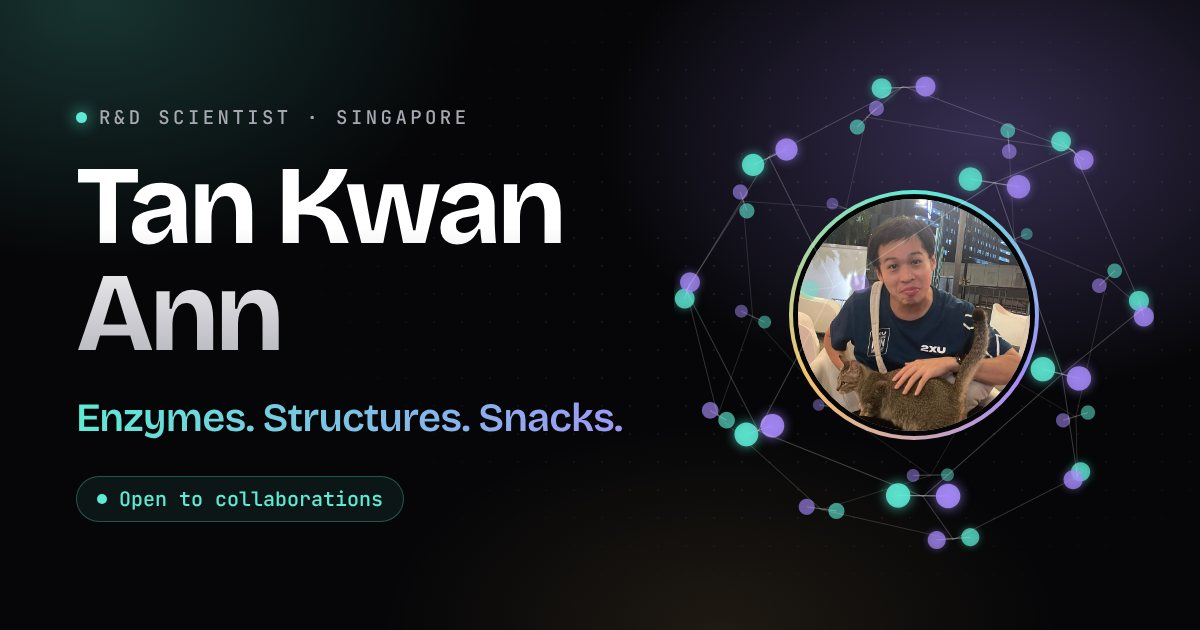
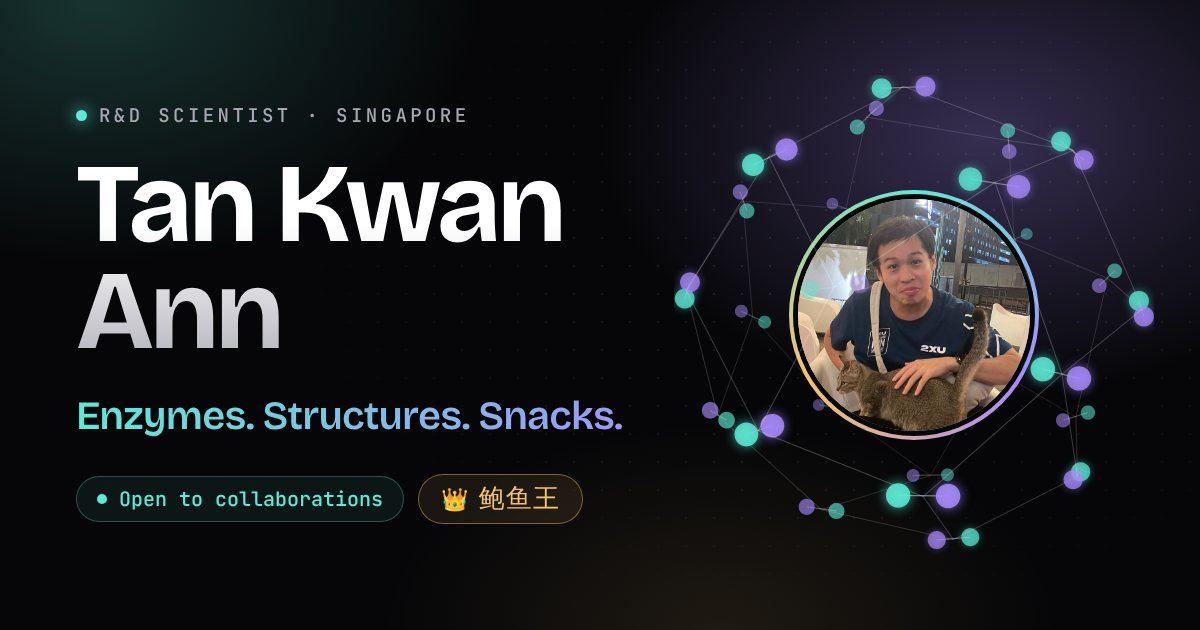
Give the Abalone King (鲍鱼王) a bigger place on ka.html
- Larger gold 鲍鱼王 badge with both titles: the Abalone King, a.k.a. the
  Abalone Sovereign; surprise message now hails the Sovereign
- 鲍鱼王 in the ticker, the footer, the page description, the structured
  search data (alternate names) and the link-preview picture
- Rolling line gains 'rule the abalone kingdom'

Claude-Session: https://claude.ai/code/session_019ofttyJurJTtPAe88Q68mV

diff --git a/ka.html b/ka.html
@@ -4,11 +4,11 @@
 <meta charset="utf-8">
 <meta name="viewport" content="width=device-width, initial-scale=1">
 <title>Tan Kwan Ann — R&amp;D Scientist</title>
-<meta name="description" content="Enzyme engineer and structural biologist in Singapore. Also: abalone, hiking, and a 3D snack shop. Open to collaborations.">
+<meta name="description" content="Enzyme engineer and structural biologist in Singapore, also known as 鲍鱼王, the Abalone Sovereign. Also: hiking and a 3D snack shop. Open to collaborations.">
 <meta name="theme-color" content="#060608">
 <meta name="color-scheme" content="dark">
 <meta property="og:type" content="website">
-<meta property="og:title" content="Tan Kwan Ann — R&amp;D Scientist (and Abalone King)">
+<meta property="og:title" content="Tan Kwan Ann — R&amp;D Scientist, a.k.a. 鲍鱼王 the Abalone Sovereign">
 <meta property="og:description" content="Enzyme engineer and structural biologist in Singapore. Also: abalone, hiking, and a 3D snack shop. Open to collaborations.">
 <meta property="og:url" content="https://tankan7-max.github.io/ka-shop/ka.html">
 <meta property="og:image" content="https://tankan7-max.github.io/ka-shop/ka-og.jpg">
@@ -20,7 +20,7 @@
 <link rel="preload" href="fonts/bricolage-grotesque-latin-wght-normal.woff2" as="font" type="font/woff2" crossorigin>
 <link rel="preload" href="fonts/inter-latin-wght-normal.woff2" as="font" type="font/woff2" crossorigin>
 <script type="application/ld+json">
-{"@context":"https://schema.org","@type":"Person","name":"Tan Kwan Ann","jobTitle":"R&D Scientist","description":"Enzyme engineer and structural biologist in Singapore.","url":"https://tankan7-max.github.io/ka-shop/ka.html","sameAs":["https://www.linkedin.com/in/tan-kwan-ann","https://github.com/tankan7-max"],"knowsAbout":["Enzyme engineering","Protein engineering","Structural biology","Cryo-EM","Biocatalysis"]}
+{"@context":"https://schema.org","@type":"Person","name":"Tan Kwan Ann","alternateName":["鲍鱼王","Abalone King","Abalone Sovereign"],"jobTitle":"R&D Scientist","description":"Enzyme engineer and structural biologist in Singapore.","url":"https://tankan7-max.github.io/ka-shop/ka.html","sameAs":["https://www.linkedin.com/in/tan-kwan-ann","https://github.com/tankan7-max"],"knowsAbout":["Enzyme engineering","Protein engineering","Structural biology","Cryo-EM","Biocatalysis"]}
 </script>
 <style>
   /* Fonts are self-hosted (see fonts/LICENSES.txt): nothing is fetched from other websites. */
@@ -76,11 +76,14 @@
   .hero .wrap { display: grid; grid-template-columns: minmax(0, 1fr) auto; gap: 40px; align-items: center; padding-top: 84px; padding-bottom: 92px; }
   .eyebrow { display: inline-flex; align-items: center; gap: 10px; margin: 0 0 20px; font: 500 12px/1 var(--mono); letter-spacing: .18em; text-transform: uppercase; color: var(--muted); }
   h1 { font: 700 clamp(46px, 9.4vw, 112px)/.94 var(--display); letter-spacing: -.045em; margin: 0 0 22px; background: linear-gradient(180deg, #fff 35%, #9d9da8 120%); -webkit-background-clip: text; background-clip: text; color: transparent; }
-  .king { display: inline-flex; align-items: center; gap: 9px; margin: 0 0 22px; padding: 8px 14px 8px 10px; border: 1px solid rgba(245,194,107,.35); border-radius: 999px; background: rgba(245,194,107,.07); color: var(--ink); font: 500 13.5px/1 var(--sans); cursor: pointer; transition: background .2s, transform .2s, border-color .2s; }
+  .king { display: inline-flex; align-items: center; gap: 11px; margin: 0 0 22px; padding: 9px 16px 9px 12px; border: 1px solid rgba(245,194,107,.35); border-radius: 999px; background: rgba(245,194,107,.07); color: var(--ink); font: 500 13.5px/1 var(--sans); cursor: pointer; transition: background .2s, transform .2s, border-color .2s; }
   .king:hover { background: rgba(245,194,107,.14); border-color: rgba(245,194,107,.6); transform: translateY(-1px) rotate(-1deg); }
-  .king .crown { font-size: 17px; line-height: 1; }
-  .king b { font: 600 14px/1 var(--cjk); color: var(--a3); }
-  .king small { color: var(--faint); font: 500 11.5px/1 var(--mono); letter-spacing: .02em; }
+  .king .crown { font-size: 22px; line-height: 1; }
+  .king b { font: 700 24px/1 var(--cjk); letter-spacing: .04em; background: linear-gradient(100deg, #f5c26b, #fb9f6b); -webkit-background-clip: text; background-clip: text; color: transparent; }
+  .king .titles { display: flex; flex-direction: column; gap: 3px; text-align: left; }
+  .king .titles span { font: 600 14px/1.1 var(--sans); }
+  .king .titles em { font: 500 11.5px/1.1 var(--mono); font-style: normal; color: var(--muted); letter-spacing: .01em; }
+  .king small { color: var(--faint); font: 500 11.5px/1 var(--mono); letter-spacing: .02em; padding-left: 4px; }
   .roll { margin: 0 0 16px; min-height: 1.35em; font: 600 clamp(22px, 3.2vw, 34px)/1.25 var(--display); letter-spacing: -.02em; }
   .word { display: inline-block; transition: opacity .3s ease, transform .3s ease; }
   .word.out { opacity: 0; transform: translateY(.45em); }
@@ -293,6 +296,7 @@
     .feature-art { max-width: 340px; width: 100%; margin: 0 auto; }
     .invite { padding: 52px 22px; border-radius: 24px; }
   }
+  @media (max-width: 480px) { .king small { display: none; } .king { padding-right: 14px; } }
   @media (max-width: 420px) { .nums { grid-template-columns: 1fr 1fr; gap: 10px; } .num { padding: 16px 14px; } .gallery { column-gap: 12px; } .gallery li { margin-bottom: 12px; } .gallery figure { padding: 6px 6px 10px; } .gallery figcaption { font-size: 12.5px; margin: 9px 3px 0; } }
   @media (prefers-reduced-motion: reduce) {
     html { scroll-behavior: auto; }
@@ -367,8 +371,8 @@
     <div>
       <p class="eyebrow"><i></i>R&amp;D Scientist · Singapore</p>
       <h1>Tan Kwan Ann</h1>
-      <button class="king" id="king" type="button" aria-label="Also known as the Abalone King. Press for a surprise.">
-        <span class="crown" aria-hidden="true">👑</span><b lang="zh-Hans">鲍鱼王</b><span>the Abalone King</span><small aria-hidden="true">(press me)</small>
+      <button class="king" id="king" type="button" aria-label="Also known as 鲍鱼王, the Abalone King, or the Abalone Sovereign. Press for a surprise.">
+        <span class="crown" aria-hidden="true">👑</span><b lang="zh-Hans">鲍鱼王</b><span class="titles"><span>the Abalone King</span><em>a.k.a. the Abalone Sovereign</em></span><small aria-hidden="true">(press me)</small>
       </button>
       <p class="roll"><span class="sr">I engineer enzymes and solve protein structures.</span><span aria-hidden="true">I <span class="word grad" id="word">engineer enzymes</span></span></p>
       <p class="lede">PhD in structural biology, now making enzymes work in industry. Weekdays I make enzymes <b>behave</b>. Weekends: hiking, snack research, and vibe-coding a <b>3D snack shop</b>.</p>
@@ -393,10 +397,10 @@
 <div class="marquee" aria-hidden="true">
   <div class="track">
     <ul>
-      <li>Directed evolution</li><li>Cryo-EM</li><li>Golden Gate</li><li class="fun">Abalone appreciation</li><li>HPLC</li><li>Cofactor recycling</li><li>Python</li><li class="fun">Snack research</li><li>Lyophilization</li><li>Gibson Assembly</li><li>MALDI-TOF/TOF</li><li class="fun">Apprentice vibe-coder</li><li>Assay development</li><li>Saturation mutagenesis</li><li class="fun">Hiking</li>
+      <li>Directed evolution</li><li>Cryo-EM</li><li>Golden Gate</li><li class="fun">Abalone appreciation</li><li class="fun" lang="zh-Hans">鲍鱼王</li><li>HPLC</li><li>Cofactor recycling</li><li>Python</li><li class="fun">Snack research</li><li>Lyophilization</li><li>Gibson Assembly</li><li>MALDI-TOF/TOF</li><li class="fun">Apprentice vibe-coder</li><li>Assay development</li><li>Saturation mutagenesis</li><li class="fun">Hiking</li>
     </ul>
     <ul aria-hidden="true">
-      <li>Directed evolution</li><li>Cryo-EM</li><li>Golden Gate</li><li class="fun">Abalone appreciation</li><li>HPLC</li><li>Cofactor recycling</li><li>Python</li><li class="fun">Snack research</li><li>Lyophilization</li><li>Gibson Assembly</li><li>MALDI-TOF/TOF</li><li class="fun">Apprentice vibe-coder</li><li>Assay development</li><li>Saturation mutagenesis</li><li class="fun">Hiking</li>
+      <li>Directed evolution</li><li>Cryo-EM</li><li>Golden Gate</li><li class="fun">Abalone appreciation</li><li class="fun" lang="zh-Hans">鲍鱼王</li><li>HPLC</li><li>Cofactor recycling</li><li>Python</li><li class="fun">Snack research</li><li>Lyophilization</li><li>Gibson Assembly</li><li>MALDI-TOF/TOF</li><li class="fun">Apprentice vibe-coder</li><li>Assay development</li><li>Saturation mutagenesis</li><li class="fun">Hiking</li>
     </ul>
   </div>
 </div>
@@ -593,7 +597,7 @@
 
 <footer>
   <div class="wrap">
-    <span>© 2026 Tan Kwan Ann · Built with AI as my pair programmer, fuelled by snacks.</span>
+    <span>© 2026 Tan Kwan Ann (<span lang="zh-Hans">鲍鱼王</span>, the Abalone Sovereign) · Built with AI as my pair programmer, fuelled by snacks.</span>
     <span class="foot-links"><a href="mailto:tankan7@gmail.com">Email</a><a href="https://www.linkedin.com/in/tan-kwan-ann" rel="noopener">LinkedIn</a><a href="https://github.com/tankan7-max" rel="noopener">GitHub</a><a href="Tan_Kwan_Ann_Resume.pdf" download>Resume (PDF)</a><a href="#top">Back to top ↑</a></span>
   </div>
 </footer>
@@ -621,9 +625,9 @@
   }
   $$('[data-copy]').forEach(b => b.addEventListener('click', async () => toast(await copyText(b.dataset.copy) ? (b.dataset.done || 'Copied') : 'Could not copy — please select the text instead.')));
 
-  // ----- The Abalone King -----
+  // ----- The Abalone King (a.k.a. the Abalone Sovereign) -----
   $('#king').addEventListener('click', () => {
-    toast('👑 All hail the Abalone King');
+    toast('👑 All hail the Abalone Sovereign');
     if (reduce) return;
     const box = document.createElement('div'); box.className = 'rain'; box.setAttribute('aria-hidden', 'true');
     for (let i = 0; i < 30; i++) {
@@ -635,7 +639,7 @@
   });
 
   // ----- Rolling line under the name -----
-  const words = ['engineer enzymes', 'solve protein structures', 'screen variants for a living', 'vibe-code (apprentice)', 'go hiking', 'do serious snack research', 'defeat abalone'];
+  const words = ['engineer enzymes', 'solve protein structures', 'screen variants for a living', 'vibe-code (apprentice)', 'go hiking', 'do serious snack research', 'defeat abalone', 'rule the abalone kingdom'];
   const wordEl = $('#word');
   if (!reduce) { let i = 0; setInterval(() => { if (document.hidden) return; wordEl.classList.add('out'); setTimeout(() => { i = (i + 1) % words.length; wordEl.textContent = words[i]; wordEl.classList.remove('out'); }, 320); }, 2700); }
 
